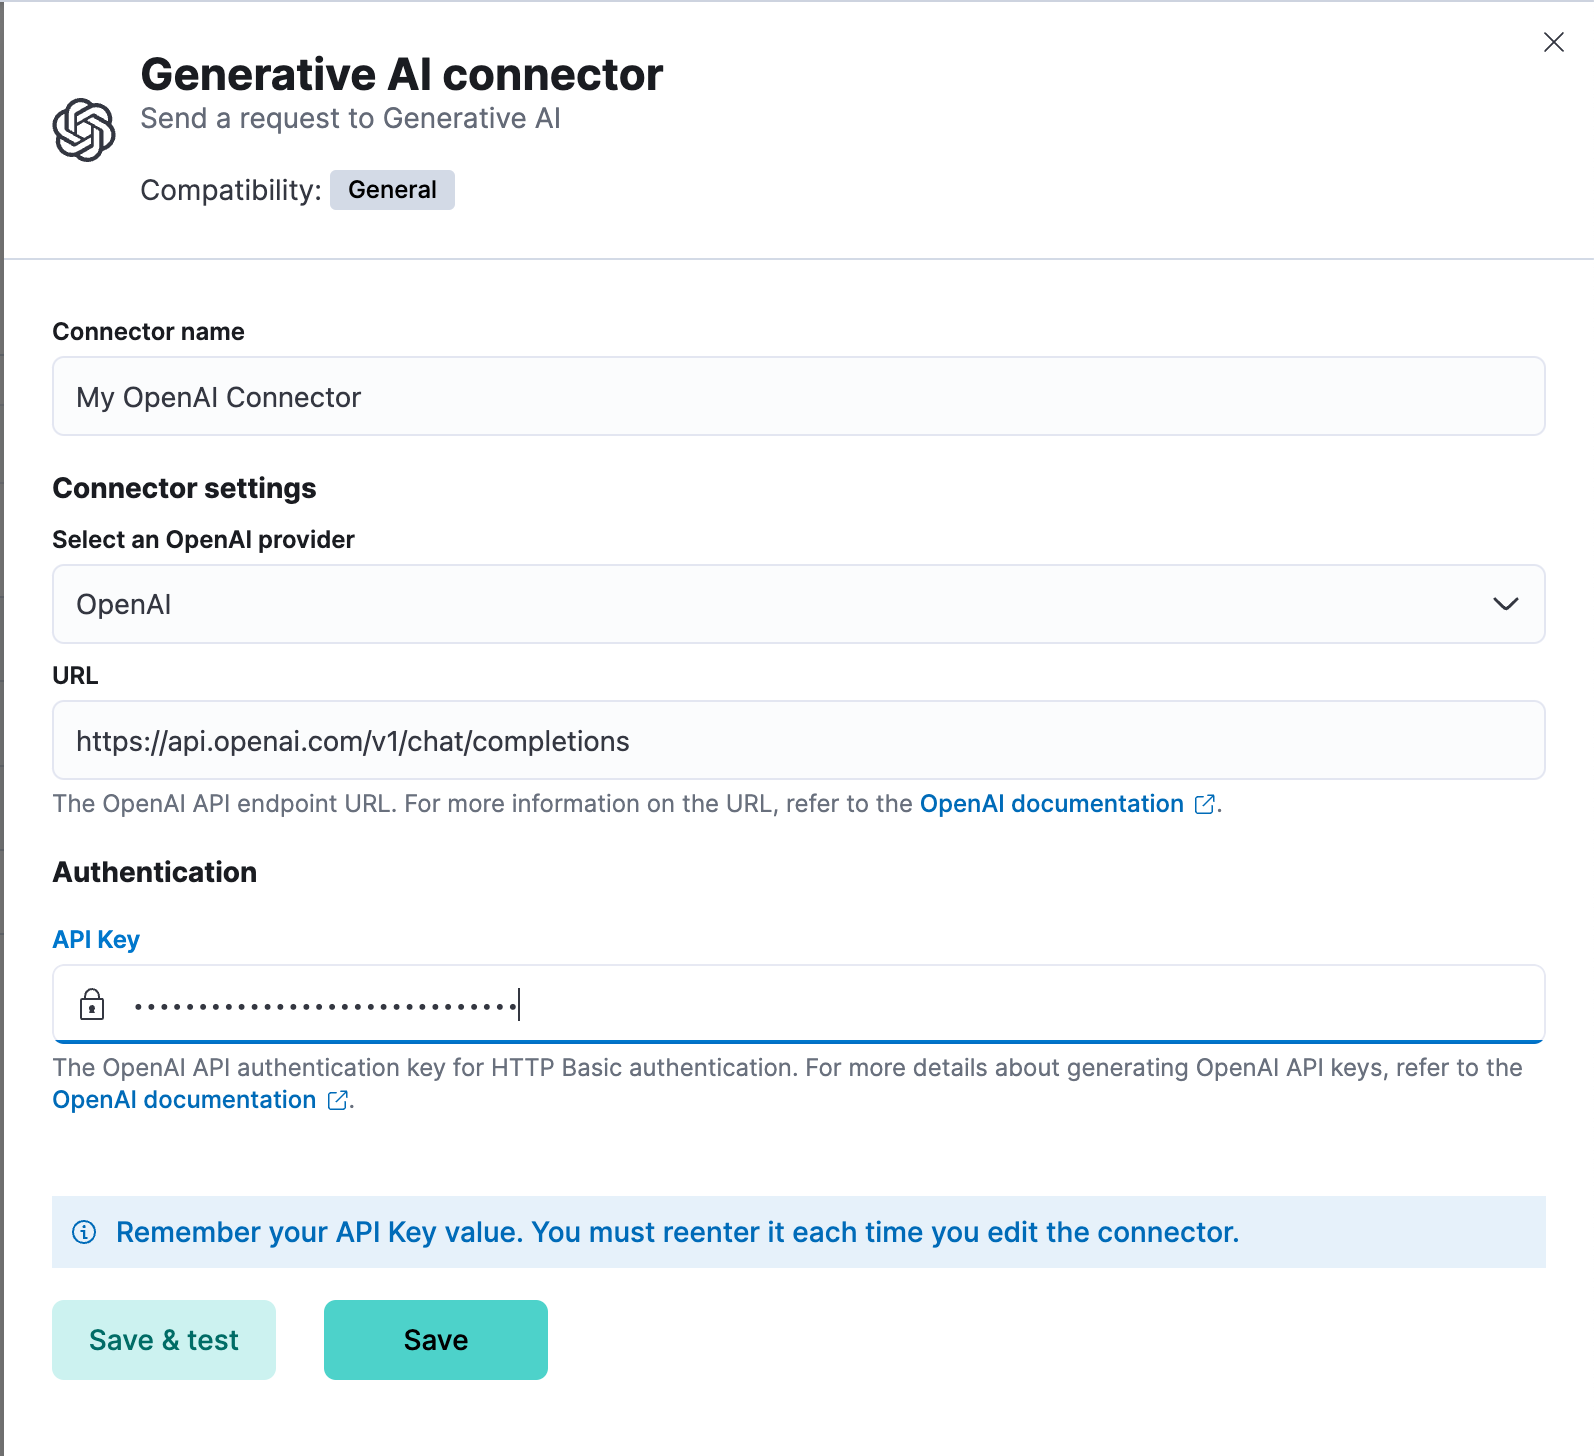
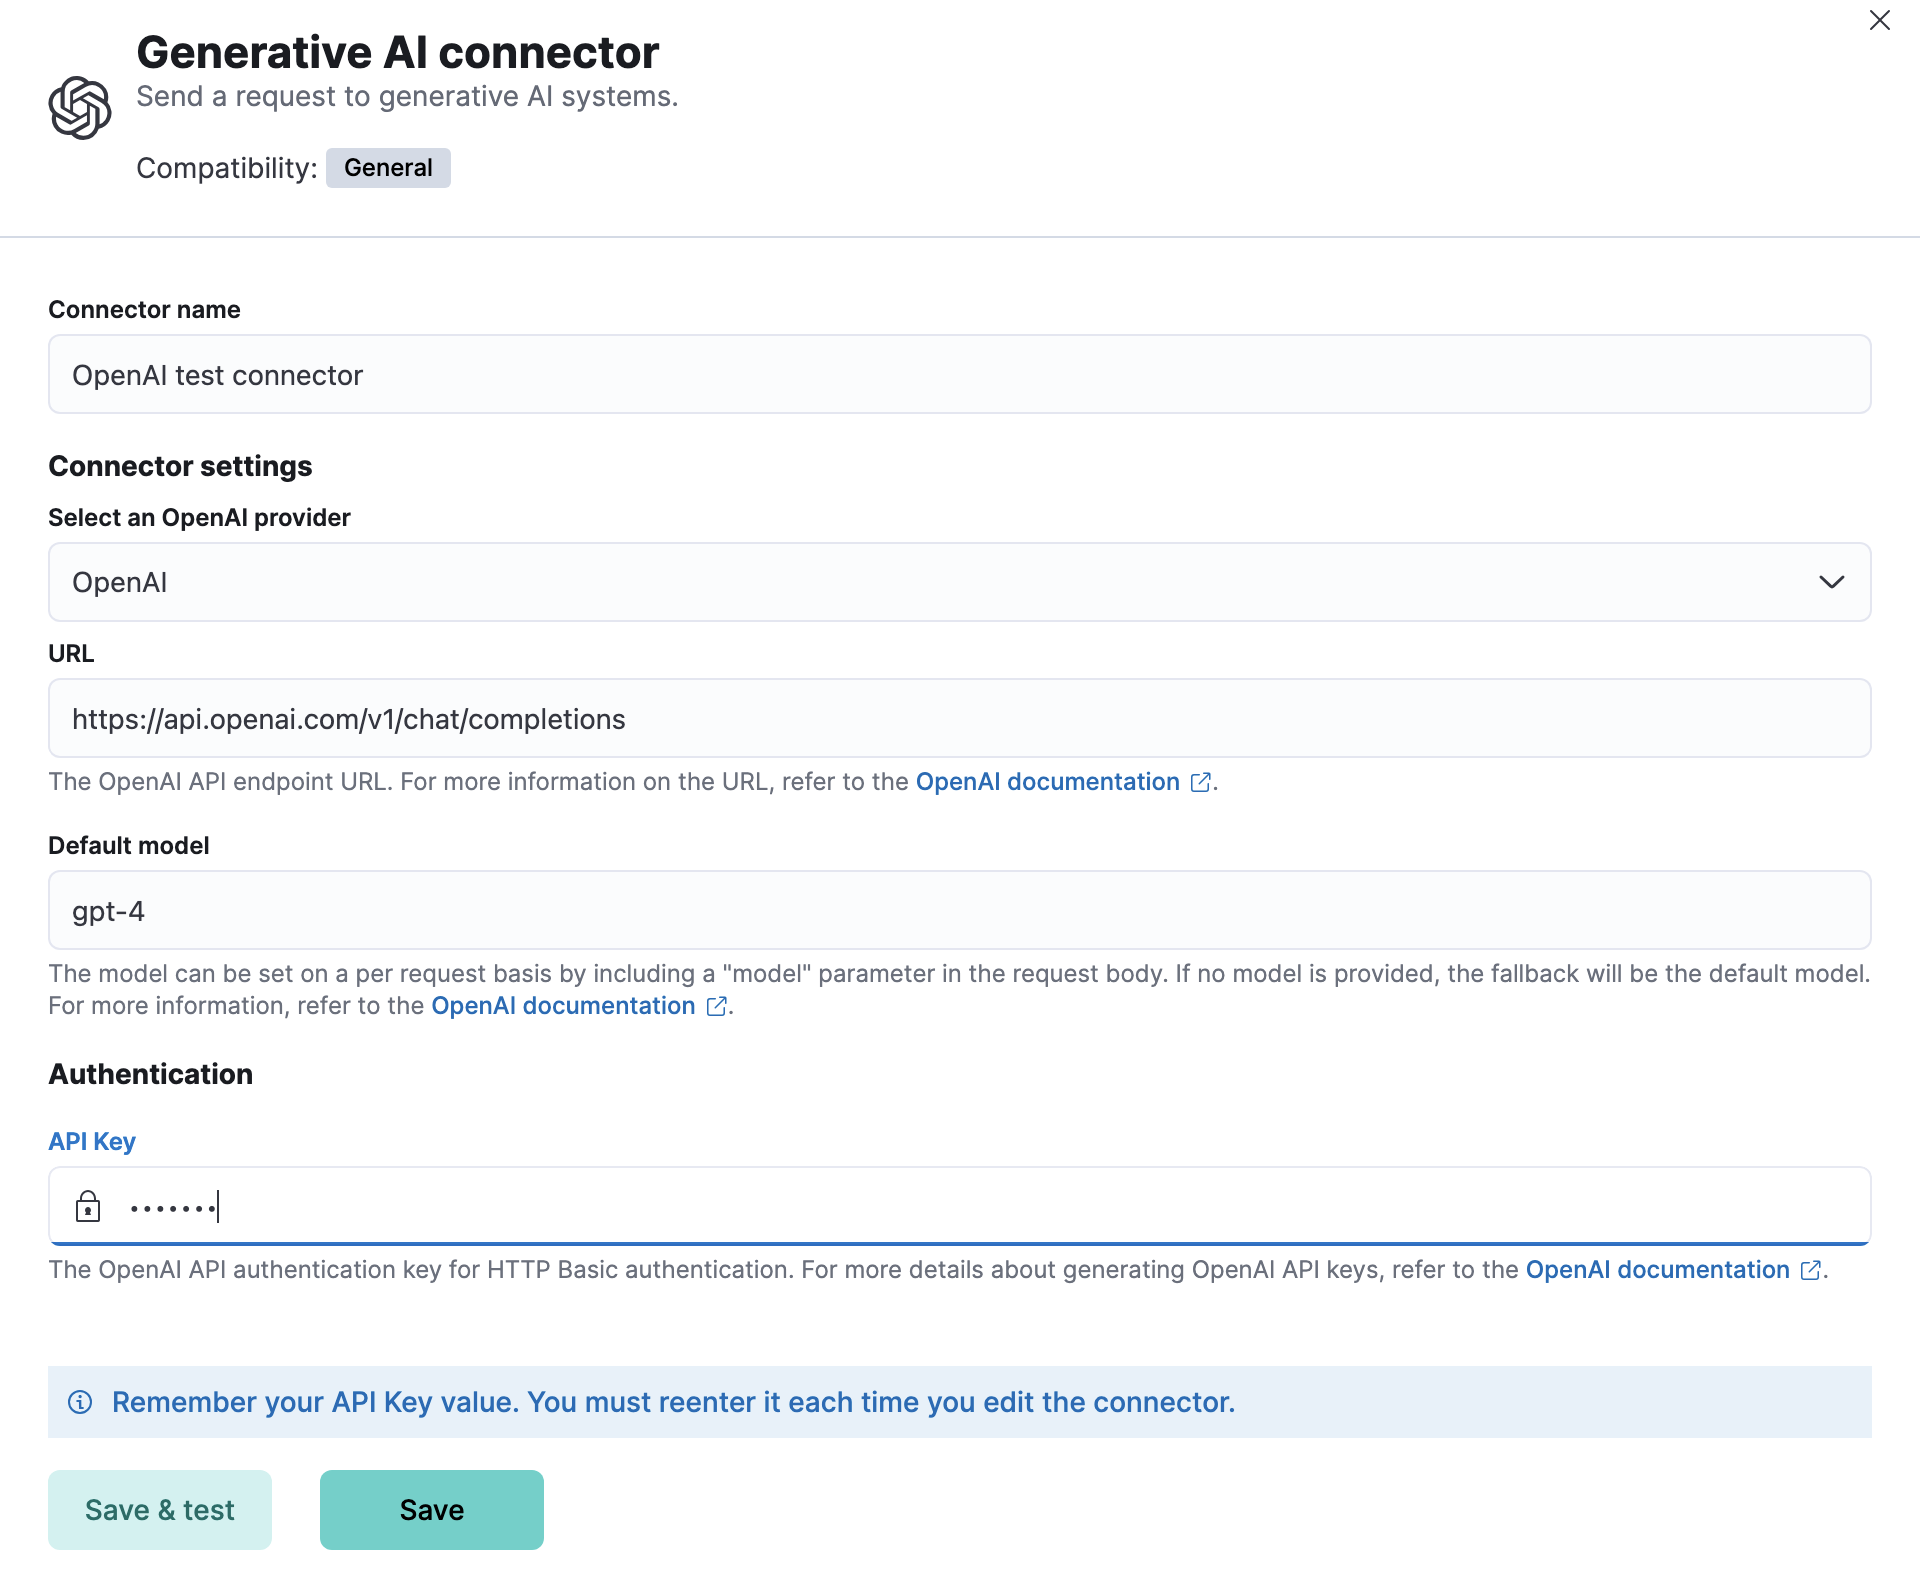
[DOCS] Automate generative AI connector screenshots (#165420)

diff --git a/x-pack/test/screenshot_creation/apps/response_ops_docs/stack_connectors/generative_ai_connector.ts b/x-pack/test/screenshot_creation/apps/response_ops_docs/stack_connectors/generative_ai_connector.ts
@@ -1,0 +1,48 @@
+/*
+ * Copyright Elasticsearch B.V. and/or licensed to Elasticsearch B.V. under one
+ * or more contributor license agreements. Licensed under the Elastic License
+ * 2.0; you may not use this file except in compliance with the Elastic License
+ * 2.0.
+ */
+
+import { FtrProviderContext } from '../../../ftr_provider_context';
+
+export default function ({ getService, getPageObjects }: FtrProviderContext) {
+  const commonScreenshots = getService('commonScreenshots');
+  const screenshotDirectories = ['response_ops_docs', 'stack_connectors'];
+  const pageObjects = getPageObjects(['common', 'header']);
+  const actions = getService('actions');
+  const testSubjects = getService('testSubjects');
+  const actionBody =
+    `{\n` +
+    `"model": "gpt-3.5-turbo",\n` +
+    `"messages": [{\n` +
+    `"role": "user",\n` +
+    `"content": "You are a cyber security analyst using Elastic Security. I would like you to evaluate the event below and format your output neatly in markdown syntax. Add your description, an accuracy rating, and a threat rating."\n` +
+    `}]`;
+
+  describe('connector types', function () {
+    beforeEach(async () => {
+      await pageObjects.common.navigateToApp('connectors');
+      await pageObjects.header.waitUntilLoadingHasFinished();
+    });
+
+    it('generative ai connector screenshots', async () => {
+      await pageObjects.common.navigateToApp('connectors');
+      await pageObjects.header.waitUntilLoadingHasFinished();
+      await actions.common.openNewConnectorForm('gen-ai');
+      await testSubjects.setValue('nameInput', 'OpenAI test connector');
+      await testSubjects.setValue('secrets.apiKey-input', 'testkey');
+      await commonScreenshots.takeScreenshot('gen-ai-connector', screenshotDirectories, 1920, 1200);
+      await testSubjects.click('create-connector-flyout-save-test-btn');
+      await testSubjects.click('toastCloseButton');
+      const editor = await testSubjects.find('kibanaCodeEditor');
+      await editor.clearValue();
+      await testSubjects.setValue('kibanaCodeEditor', actionBody, {
+        clearWithKeyboard: true,
+      });
+      await commonScreenshots.takeScreenshot('gen-ai-params-test', screenshotDirectories);
+      await testSubjects.click('euiFlyoutCloseButton');
+    });
+  });
+}

diff --git a/x-pack/test/screenshot_creation/apps/response_ops_docs/stack_connectors/index.ts b/x-pack/test/screenshot_creation/apps/response_ops_docs/stack_connectors/index.ts
@@ -55,5 +55,6 @@ export default function ({ loadTestFile, getService }: FtrProviderContext) {
 
     loadTestFile(require.resolve('./connectors'));
     loadTestFile(require.resolve('./connector_types'));
+    loadTestFile(require.resolve('./generative_ai_connector'));
   });
 }
